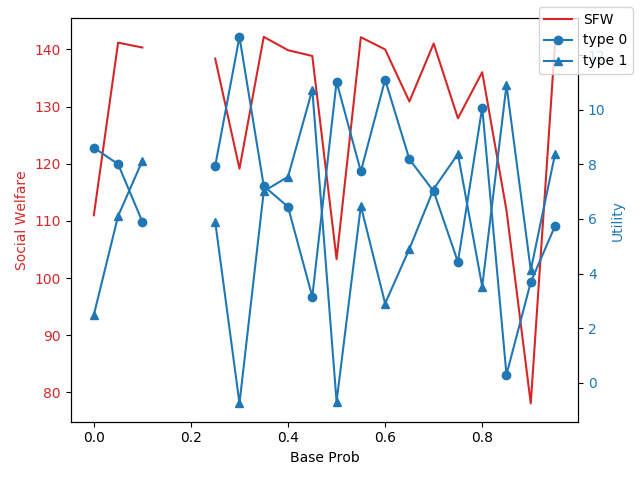
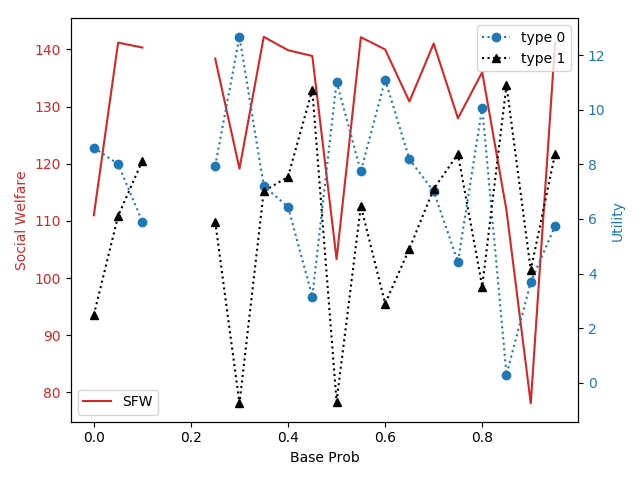
BaseProChange

diff --git a/SocialPlanner/SimulationFile.py b/SocialPlanner/SimulationFile.py
@@ -70,8 +70,8 @@ plt.title("Vaccination vs Base Probability")
 plt.legend()
 plt.show()'''
 
-'''import matplotlib.pyplot as plt
-fig, ax1 = plt.subplots()
+import matplotlib.pyplot as plt
+'''fig, ax1 = plt.subplots()
 color = 'tab:red'
 ax1.set_xlabel('Base Prob')
 ax1.set_ylabel('Social Welfare', color=color)
@@ -81,15 +81,16 @@ ax1.legend()
 ax2 = ax1.twinx()
 color = 'tab:blue'
 ax2.set_ylabel('Utility', color=color)
-ax2.plot(BP, UA, 'o-',label='type 0',color=color)
-ax2.plot(BP, UB, '^-',label='type 1',color=color)
+ax2.plot(BP, UA, 'o:',label='type 0',color=color)
+ax2.plot(BP, UB, '^:',label='type 1',color='black')
 ax2.tick_params(axis='y', labelcolor=color)
 ax2.legend()
 #ax1.title("Utility vs Base Probability")
 #fig.legend()
 fig.tight_layout()
-plt.savefig('Welfare-BasePro',format='png')
-plt.show()'''
+plt.savefig('Welfare-BasePro.png',format='png')
+plt.show()
+'''
 
 import matplotlib.pyplot as plt
 fig, ax1 = plt.subplots()
@@ -102,15 +103,15 @@ ax1.legend()
 ax2 = ax1.twinx()
 color = 'tab:blue'
 ax2.set_ylabel('Vaccin', color=color)
-ax2.plot(BP, VacA, 'o-',label='type 0',color=color)
-ax2.plot(BP, VacB, '^-',label='type 1',color=color)
+ax2.plot(BP, VacA, 'o:',label='type 0',color=color)
+ax2.plot(BP, VacB, '^:',label='type 1',color='black')
 ax2.tick_params(axis='y', labelcolor=color)
 ax2.legend()
 #ax1.title("Utility vs Base Probability")
 #fig.legend()
 fig.tight_layout()
+plt.savefig('Vaccin-BasePro.png',format='png')
 plt.show()
-plt.savefig('Vaccin-BasePro',format='png')
 
 #for i in range(Type_of_consumers):
 #    print "The "+str(i+1)+" type of agent consumes goods: "+np.array2string(Result[i*(number_of_goods+number_of_factors):i*(number_of_goods+number_of_factors)+number_of_goods])

diff --git a/SocialPlanner/WelfareCES.py b/SocialPlanner/WelfareCES.py
@@ -121,5 +121,5 @@ class Social:
         3."MarketClears" &"Technology" set as the constrain of optimization problem.
         """
         res = minimize(self.Welfare, [50.0]*(self.nt*(self.ng+self.nf)+self.ng*(1+self.nf)), args=(-1.0,),
-                       constraints=self.Constraint(), method='SLSQP', options={'disp': True,'maxiter':1000})
+                       constraints=self.Constraint(), method='SLSQP', options={'disp': False,'maxiter':1000})
         return res
